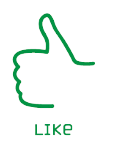
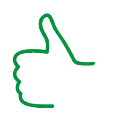
comentarios finalizado e ajustes na home

Changed region(s): [[0.1017, 0.0744, 0.8136, 0.8926]]

diff --git a/index.html b/index.html
@@ -199,7 +199,7 @@
                     </h1>
 
                     <div id="comentarios">
-                        <div id="foto_comentario"><img src="src/img/icone_usuario.png" width="75px"/></div>
+                        <div id="foto_comentario"><img src="src/img/icone_usuario.png" alt="Foto do usuário no comentário"/></div>
                         <div id="texto_comentario">
                             <p><b>Jair Lula da Silva</b></p>
                             <p>Lorem, ipsum dolor sit amet consectetur adipisicing elit. 
@@ -207,22 +207,31 @@
                                 sint quos nisi dolorem sequi, ex neque asperiores minima?</p>
                         </div>
                         <div id="acoes_comentario">
-                            <ul>
+                            <button id="btn_like" onclick="acaoBotao()"></button>
+                            <button id="btn_deslike" onclick="acaoBotao()"></button>
+                            <!-- <ul>
                                 <li><button class="button" id="btn_like">Like</button></li>
                                 <li><button class="button" id="btn_deslike">Deslike</button></li>
-                            </ul>
+                            </ul> -->
                         </div>
                     </div>
                     
                     <div id="comentarios">
                         <div id="foto_comentario"><img src="src/img/icone_usuario.png" width="75px"/></div>
                         <div id="texto_comentario">
-                            <p><b>Luiz Bolsonaro</b></p>
+                            <p><b>Luiz Messias Bolsonaro</b></p>
                             <p>Lorem, ipsum dolor sit amet consectetur adipisicing elit. 
                                 Doloribus perspiciatis perferendis officiis molestiae animi possimus enim inventore et blanditiis, 
                                 sint quos nisi dolorem sequi, ex neque asperiores minima?</p>
                         </div>
-                        <div id="acoes_comentario"></div>
+                        <div id="acoes_comentario">
+                            <button id="btn_like" onclick="acaoBotao()"></button>
+                            <button id="btn_deslike" onclick="acaoBotao()"></button>
+                            <!-- <ul>
+                                <li><button class="button" id="btn_like">Like</button></li>
+                                <li><button class="button" id="btn_deslike">Deslike</button></li>
+                            </ul> -->
+                        </div>
                     </div>
                 </article><!-- FIM  Comentários-->
            

diff --git a/src/css/styles.css b/src/css/styles.css
@@ -158,19 +158,6 @@ textarea {
     padding: 5px 40px;
 }
 
-#foto_comentario {
-    background-color: #cdcccc;
-    width: 150px;
-    height: 100%;
-    margin: 30px 60px;
-    border-radius: 100%;
-    display: inline;
-}
-
-#acoes_comentario {
-    display: inline;
-}
-
 #comentarios {
     border: 2px solid #9b9b9b;
     border-radius: 5px;
@@ -178,8 +165,50 @@ textarea {
     margin: 25px 150px;
 }
 
-#texto_comentario {
+#foto_comentario {
+    margin: 30px 60px;
     display: inline;
+}
+
+#foto_comentario img{
+    width: 90px;
+    border-radius: 50%;
+    border: 3px solid #767676;
+    background-color: #dcdada;
+}
+
+#texto_comentario {
+    display: flex;
+    flex-direction: column;
+}
+
+#acoes_comentario #btn_like{
+    background: var(--btn-like-bg);
+    width: 60px;
+    height: 60px;
+    background-size: 90%;
+    cursor: pointer; 
+    margin-top: 15px;
+    transition: transform 200ms ease-in-out;
+
+}
+
+#acoes_comentario #btn_like:hover{
+    transform: scale(1.25);
+}
+
+#acoes_comentario #btn_deslike{
+    background: var(--btn-deslike-bg);
+    width: 60px;
+    height: 60px;
+    background-size: 90%;
+    cursor: pointer;  
+    transition: transform 200ms ease-in-out;  
+
+}
+
+#acoes_comentario #btn_deslike:hover{
+    transform: scale(1.25);
 }
 
 .button {

diff --git a/src/css/base.css b/src/css/base.css
@@ -23,6 +23,8 @@
     --btn-dark-tamanho-imagem: 100%;
     --btn-interrogacao-bg: url(../img/interrogacao.png) center center no-repeat;
     --btn-perfil-bg:url(../img/icone_usuario_preto.png) no-repeat center center;
+    --btn-like-bg: url(../img/like.png) center center no-repeat;
+    --btn-deslike-bg: url(../img/deslike.png) center center no-repeat;
     --btn-border: 2px solid black;
 
     --img-face: url(../img/face.png) center center no-repeat;

diff --git a/src/js/funcionalidades.js b/src/js/funcionalidades.js
@@ -13,3 +13,7 @@ function envia_contato(){
     alert("Enviou legal!");
 }
 
+function acaoBotao(){
+    alert("Obrigado por seu feedback!");
+}
+
